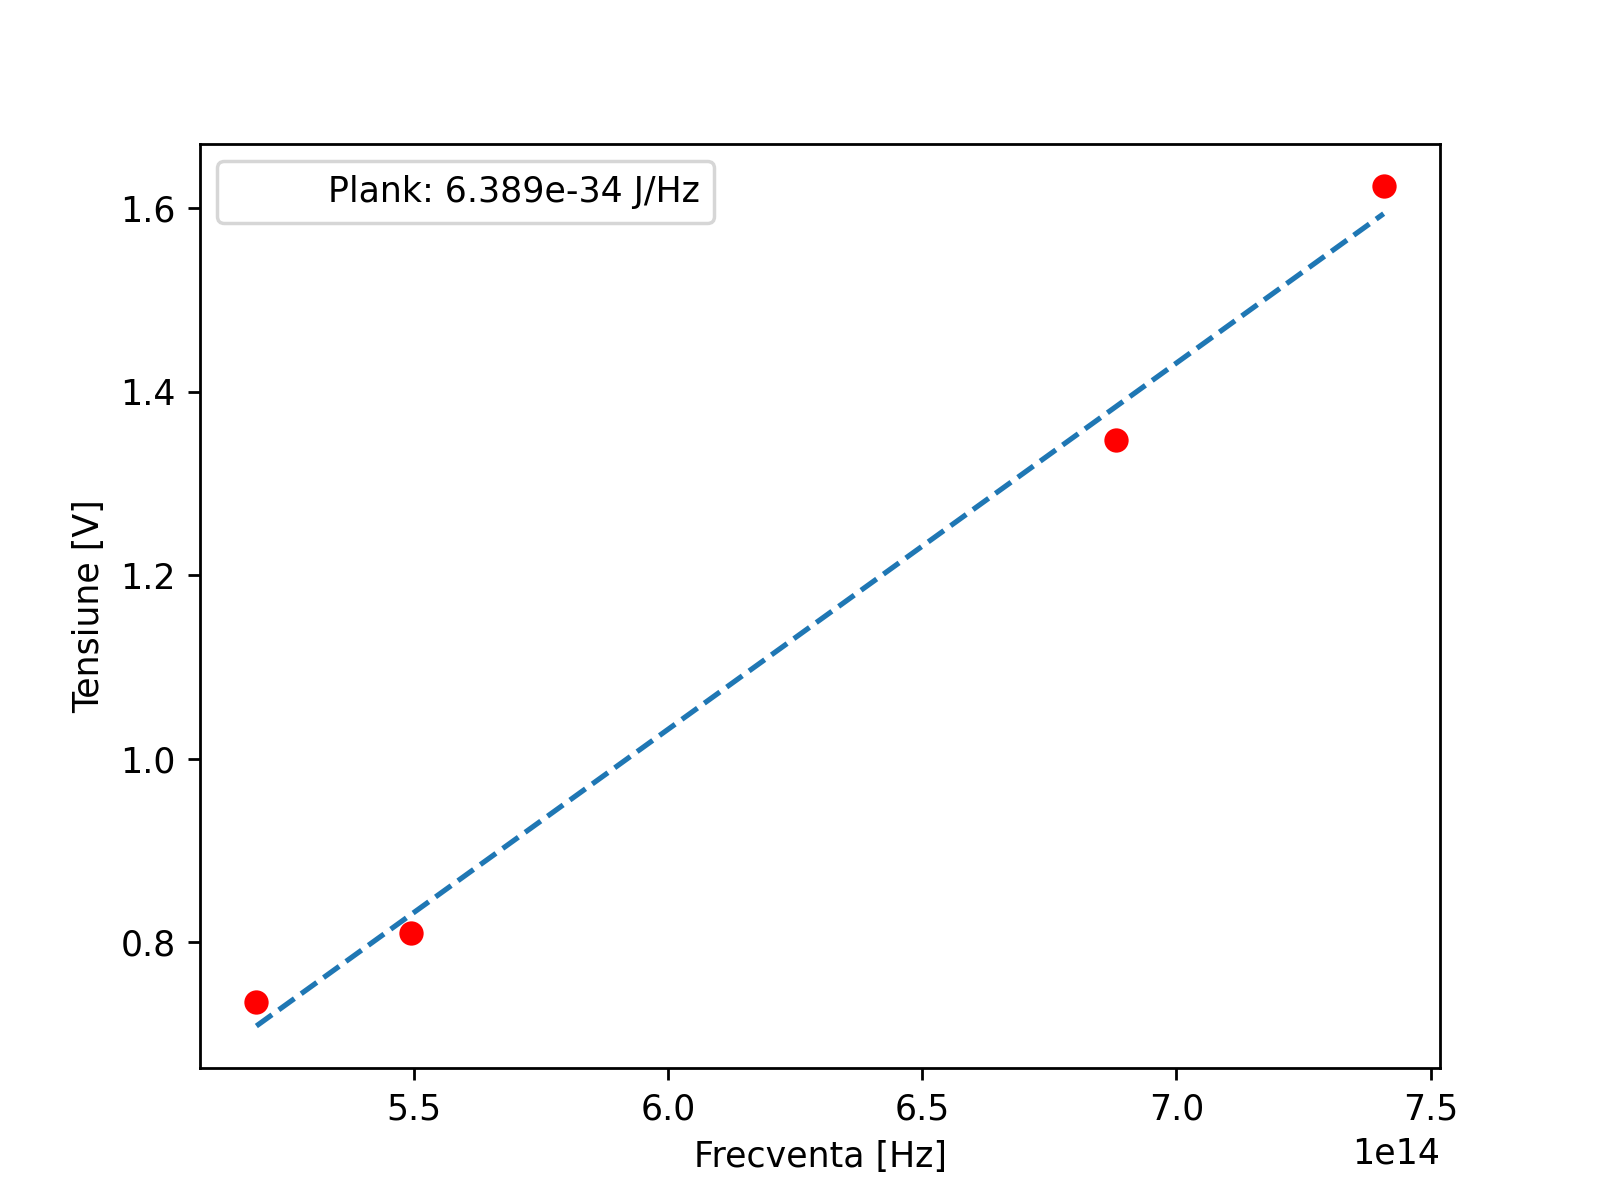
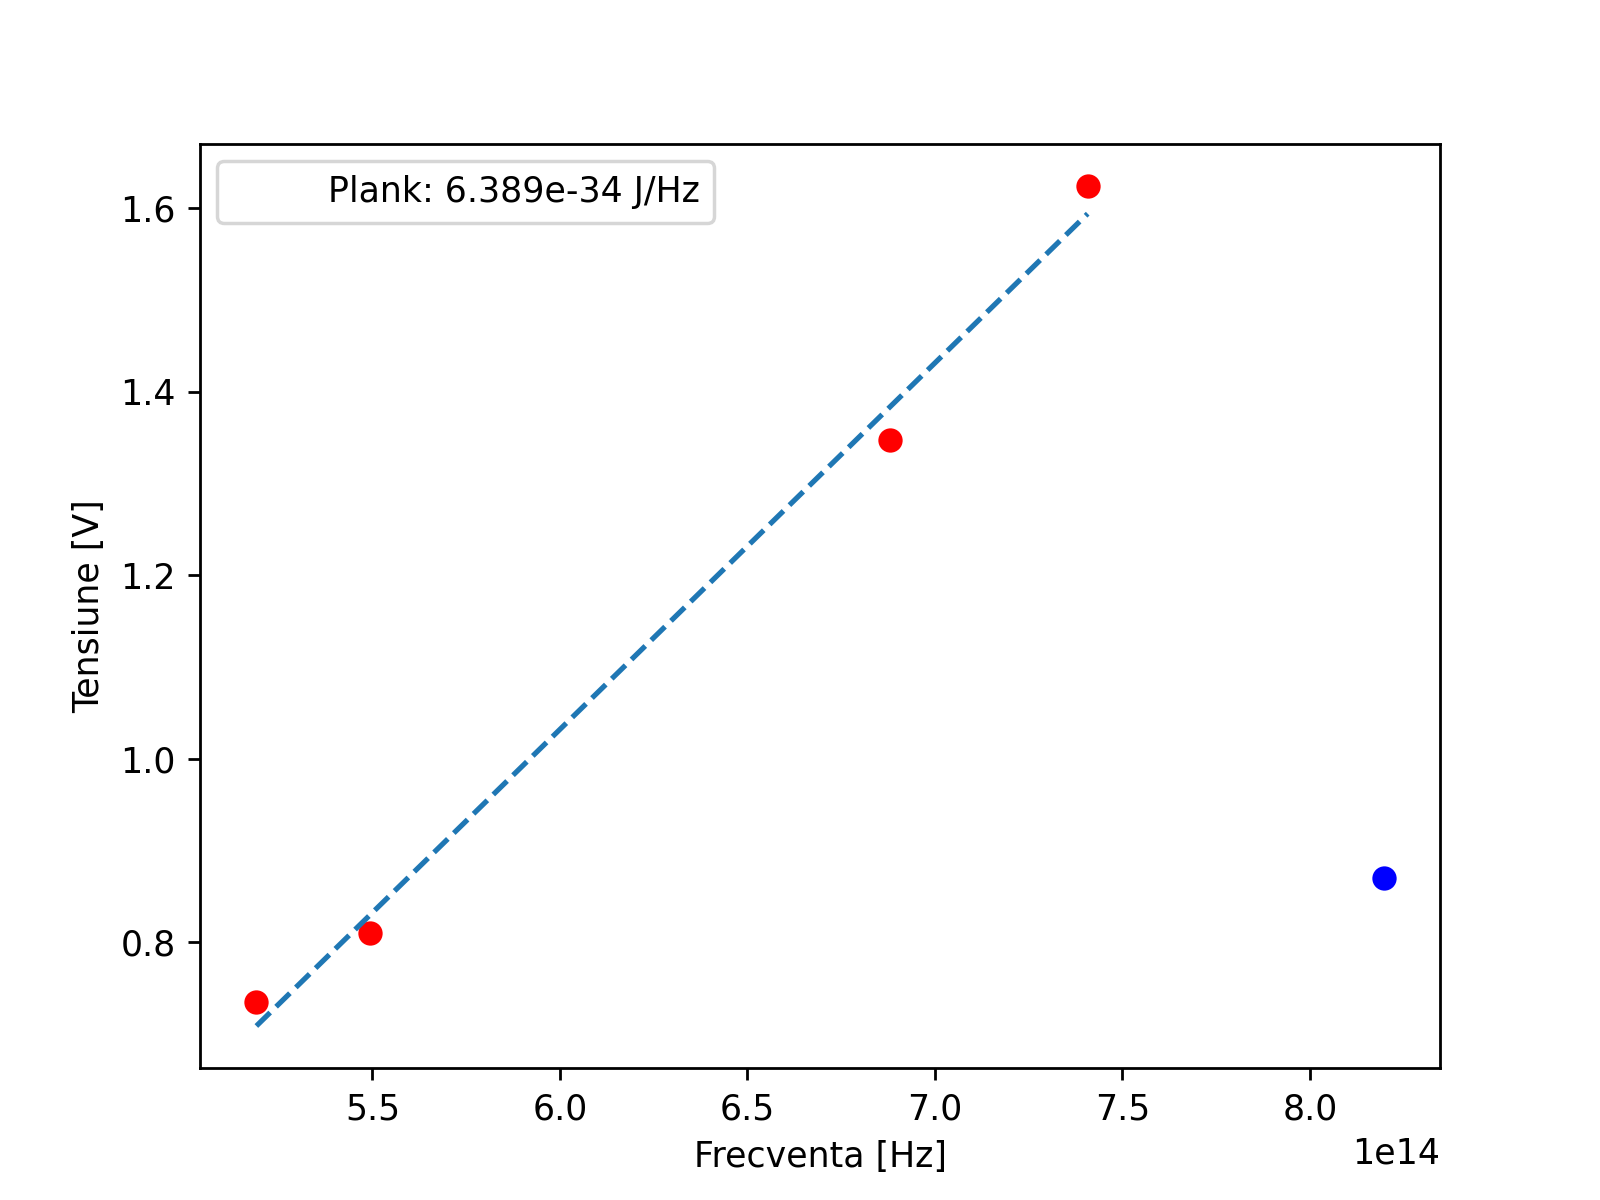
Adaugat punctul 366

diff --git a/l5/main.py b/l5/main.py
@@ -17,7 +17,11 @@ for j, i in enumerate(["578", "546", "436", "405"]):
     wave_len = int(i) * 1e-9 # m
     frecv.append(c / wave_len) # Hz
     U_med.append(np.mean((data[:]))) # V
-    #print(f"U_med_{i} = {U_med[j]:.3f}, frecv_{i} = {frecv[j]:.3e}")
+
+# Procesez datele pentru 366 nm (exclus din regresie)
+wave_len_366 = 366 * 1e-9 # m
+frecv_366 = c / wave_len_366 # Hz
+U_med_366 = np.mean(np.genfromtxt("data_366.csv", delimiter=",", skip_header=1)) # V
 
 # Plot
 fig, ax = plt.subplots()
@@ -33,6 +37,8 @@ ax.plot(frecv, p(frecv), linestyle='--')
 h = coef[0] * e
 print(f"Plank: {h:.3e} J/Hz")
 ax.plot([], [], ' ', label=f"Plank: {h:.3e} J/Hz")
+# Afisez valoarea pentru 366 nm
+ax.plot(frecv_366, U_med_366, 'bo')
 
 # Calculez frecventa de prag si lucrul mecanic de extractie
 frecv_prag = -coef[1] / coef[0]
